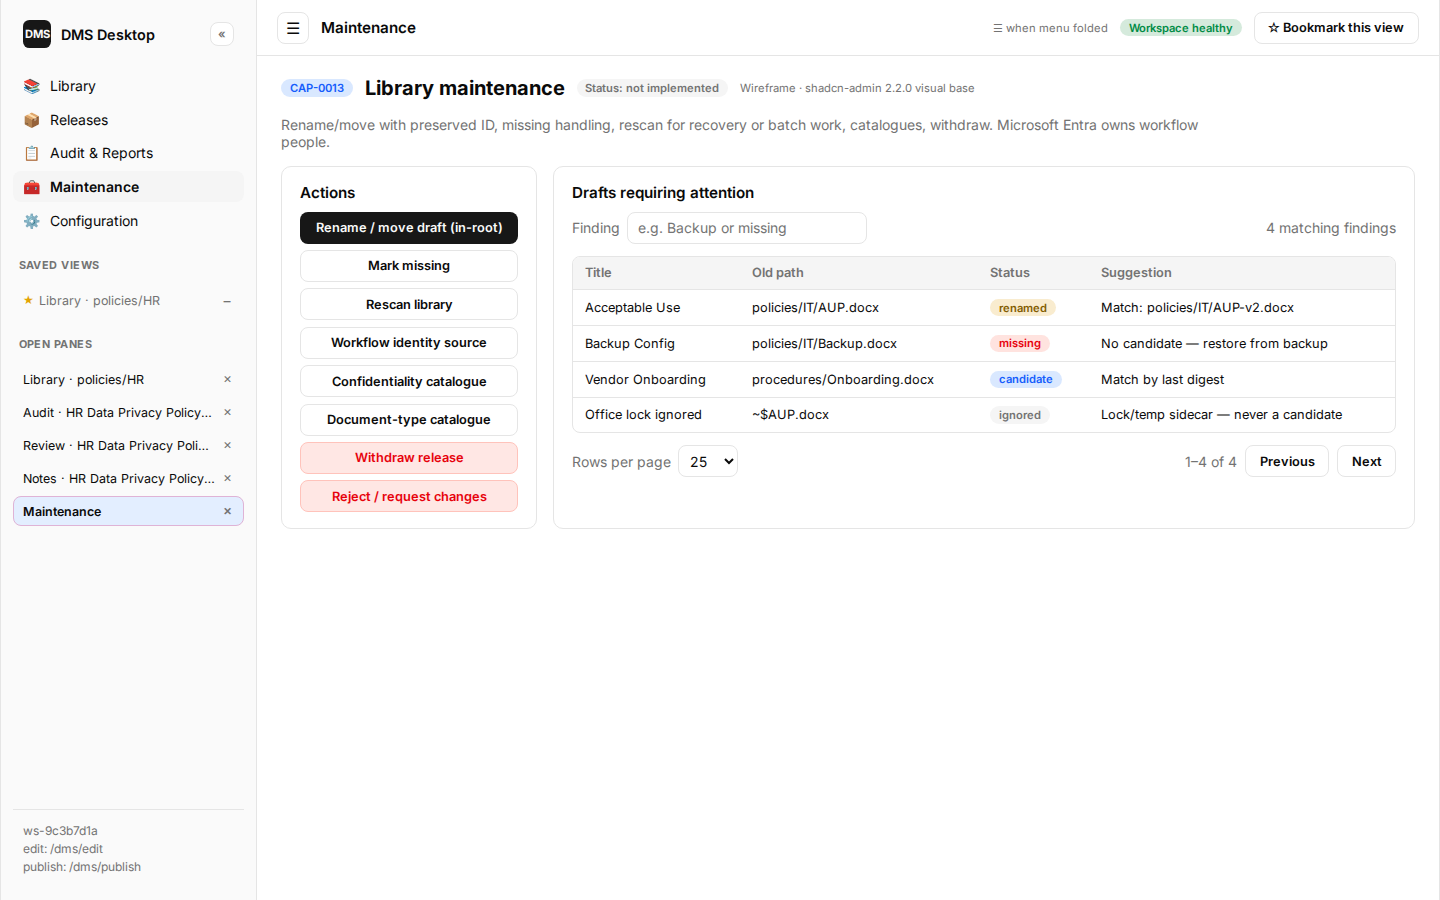
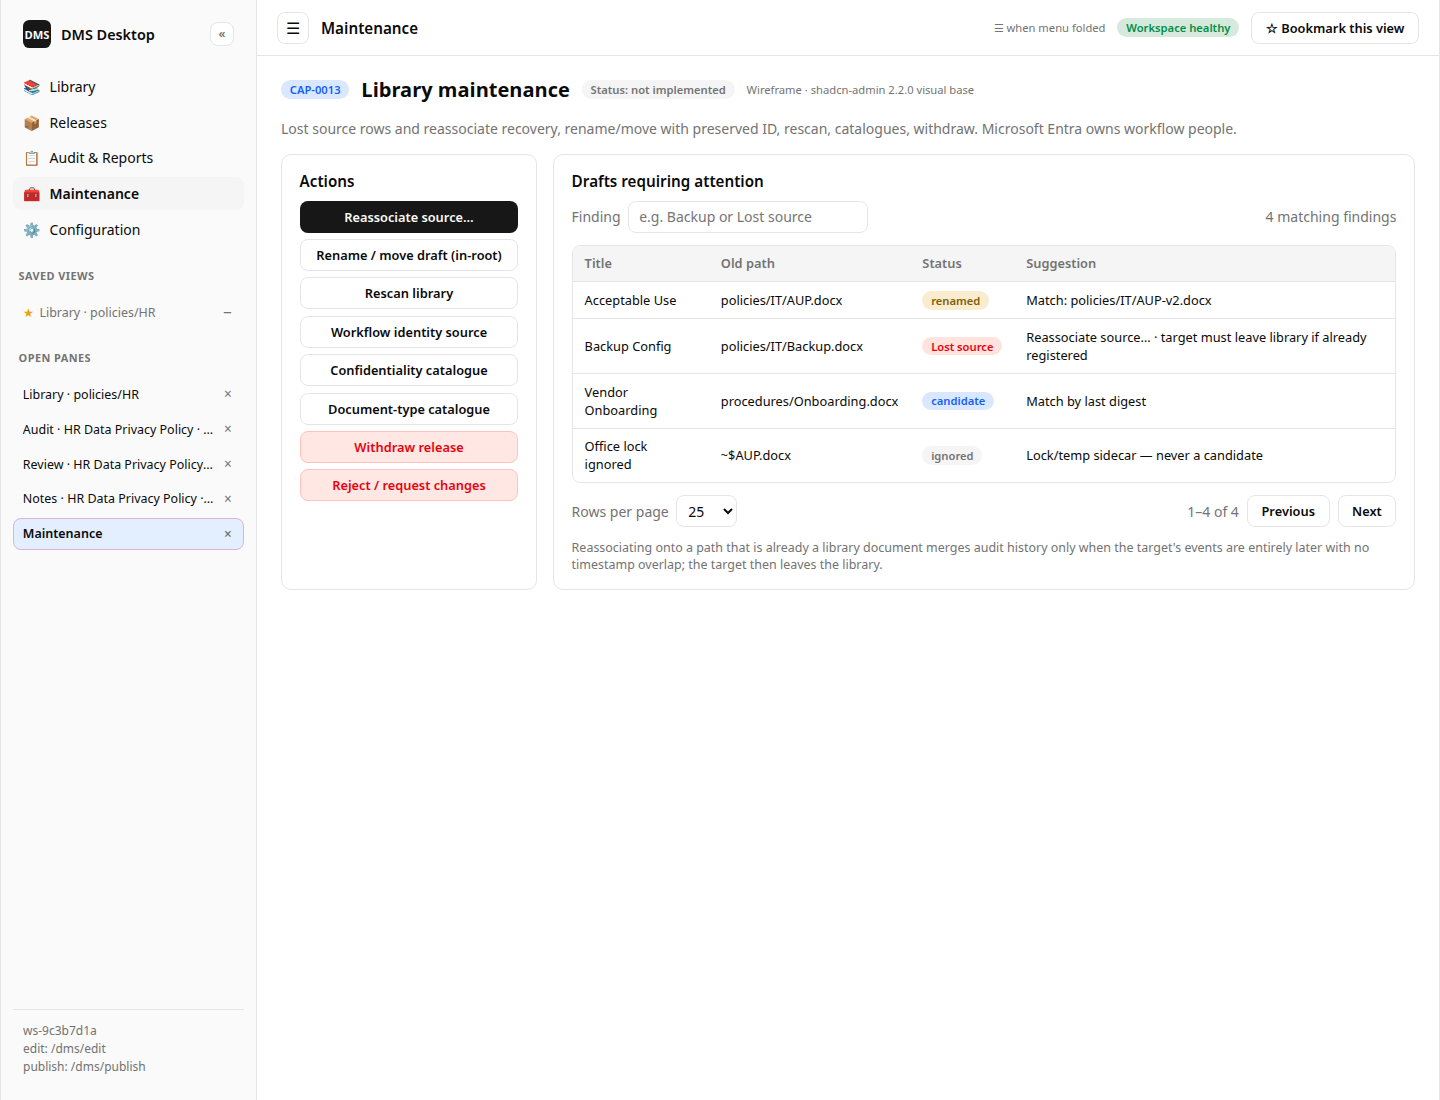
docs(wireframes): show lost-source library recovery
Regenerate CAP-0006/CAP-0013 screens for (Re-)Moved documents filter,
? counters, Lost source rows, and reassociate absorb guidance after
feat(library) c71a81b.

diff --git a/docs/product/wireframes/html/CAP-0006-library-explorer.html b/docs/product/wireframes/html/CAP-0006-library-explorer.html
@@ -299,13 +299,13 @@ tr:last-child td { border-bottom: 0; }
           <p class="hint" style="margin-top:0">Edit-root folders · <code>.dms</code> and the configured Markdown Word template hidden</p>
           <ul class="tree-root">
             <li>
-              <div class="tree-node"><span class="tree-twisty">▾</span><span class="tree-label"><svg aria-hidden="true" viewBox="0 0 24 24" style="width:1rem;height:1rem;display:inline-block;vertical-align:-0.18rem;fill:none;stroke:currentColor;stroke-width:1.8;stroke-linecap:round;stroke-linejoin:round"><path d="M3 6h7l2 2h9v11H3z"/><path d="M3 6V4h7l2 2"/></svg> DMS Workspace <span aria-label="2 draft documents" title="2 draft documents" style="display:inline-flex;min-width:1rem;justify-content:center;padding:0.05rem 0.14rem;border-radius:999px;background:var(--muted);font-size:0.58rem;font-weight:700">~2</span> <span aria-label="2 files available to add" title="2 files available to add" style="display:inline-flex;min-width:1rem;justify-content:center;padding:0.05rem 0.14rem;border-radius:999px;background:var(--muted);font-size:0.58rem;font-weight:700">+2</span> <span aria-label="1 unsupported file" title="1 unsupported file" style="display:inline-flex;min-width:1rem;justify-content:center;padding:0.05rem 0.14rem;border-radius:999px;background:var(--muted);font-size:0.58rem;font-weight:700">!1</span></span></div>
+              <div class="tree-node"><span class="tree-twisty">▾</span><span class="tree-label"><svg aria-hidden="true" viewBox="0 0 24 24" style="width:1rem;height:1rem;display:inline-block;vertical-align:-0.18rem;fill:none;stroke:currentColor;stroke-width:1.8;stroke-linecap:round;stroke-linejoin:round"><path d="M3 6h7l2 2h9v11H3z"/><path d="M3 6V4h7l2 2"/></svg> DMS Workspace <span aria-label="2 draft documents" title="2 draft documents" style="display:inline-flex;min-width:1rem;justify-content:center;padding:0.05rem 0.14rem;border-radius:999px;background:var(--muted);font-size:0.58rem;font-weight:700">~2</span> <span aria-label="2 files available to add" title="2 files available to add" style="display:inline-flex;min-width:1rem;justify-content:center;padding:0.05rem 0.14rem;border-radius:999px;background:var(--muted);font-size:0.58rem;font-weight:700">+2</span> <span aria-label="1 unsupported file" title="1 unsupported file" style="display:inline-flex;min-width:1rem;justify-content:center;padding:0.05rem 0.14rem;border-radius:999px;background:var(--muted);font-size:0.58rem;font-weight:700">!1</span> <span aria-label="1 (re-)moved document" title="1 (re-)moved document" style="display:inline-flex;min-width:1rem;justify-content:center;padding:0.05rem 0.14rem;border-radius:999px;background:var(--muted);font-size:0.58rem;font-weight:700">?1</span></span></div>
               <ul>
                 <li>
-                  <div class="tree-node"><span class="tree-twisty">▾</span><span class="tree-label"><svg aria-hidden="true" viewBox="0 0 24 24" style="width:1rem;height:1rem;display:inline-block;vertical-align:-0.18rem;fill:none;stroke:currentColor;stroke-width:1.8;stroke-linecap:round;stroke-linejoin:round"><path d="M3 6h7l2 2h9v11H3z"/><path d="M3 6V4h7l2 2"/></svg> policies <span aria-label="2 draft documents" title="2 draft documents" style="display:inline-flex;min-width:1rem;justify-content:center;padding:0.05rem 0.14rem;border-radius:999px;background:var(--muted);font-size:0.58rem;font-weight:700">~2</span> <span aria-label="2 files available to add" title="2 files available to add" style="display:inline-flex;min-width:1rem;justify-content:center;padding:0.05rem 0.14rem;border-radius:999px;background:var(--muted);font-size:0.58rem;font-weight:700">+2</span> <span aria-label="1 unsupported file" title="1 unsupported file" style="display:inline-flex;min-width:1rem;justify-content:center;padding:0.05rem 0.14rem;border-radius:999px;background:var(--muted);font-size:0.58rem;font-weight:700">!1</span></span></div>
+                  <div class="tree-node"><span class="tree-twisty">▾</span><span class="tree-label"><svg aria-hidden="true" viewBox="0 0 24 24" style="width:1rem;height:1rem;display:inline-block;vertical-align:-0.18rem;fill:none;stroke:currentColor;stroke-width:1.8;stroke-linecap:round;stroke-linejoin:round"><path d="M3 6h7l2 2h9v11H3z"/><path d="M3 6V4h7l2 2"/></svg> policies <span aria-label="2 draft documents" title="2 draft documents" style="display:inline-flex;min-width:1rem;justify-content:center;padding:0.05rem 0.14rem;border-radius:999px;background:var(--muted);font-size:0.58rem;font-weight:700">~2</span> <span aria-label="2 files available to add" title="2 files available to add" style="display:inline-flex;min-width:1rem;justify-content:center;padding:0.05rem 0.14rem;border-radius:999px;background:var(--muted);font-size:0.58rem;font-weight:700">+2</span> <span aria-label="1 unsupported file" title="1 unsupported file" style="display:inline-flex;min-width:1rem;justify-content:center;padding:0.05rem 0.14rem;border-radius:999px;background:var(--muted);font-size:0.58rem;font-weight:700">!1</span> <span aria-label="1 (re-)moved document" title="1 (re-)moved document" style="display:inline-flex;min-width:1rem;justify-content:center;padding:0.05rem 0.14rem;border-radius:999px;background:var(--muted);font-size:0.58rem;font-weight:700">?1</span></span></div>
                   <ul>
                     <li>
-                      <div class="tree-node active"><span class="tree-twisty">▾</span><span class="tree-label"><svg aria-hidden="true" viewBox="0 0 24 24" style="width:1rem;height:1rem;display:inline-block;vertical-align:-0.18rem;fill:none;stroke:currentColor;stroke-width:1.8;stroke-linecap:round;stroke-linejoin:round"><path d="M3 6h7l2 2h9v11H3z"/><path d="M3 6V4h7l2 2"/></svg> HR <span aria-label="2 draft documents" title="2 draft documents" style="display:inline-flex;min-width:1rem;justify-content:center;padding:0.05rem 0.14rem;border-radius:999px;background:var(--muted);font-size:0.58rem;font-weight:700">~2</span> <span aria-label="2 files available to add" title="2 files available to add" style="display:inline-flex;min-width:1rem;justify-content:center;padding:0.05rem 0.14rem;border-radius:999px;background:var(--muted);font-size:0.58rem;font-weight:700">+2</span> <span aria-label="1 unsupported file" title="1 unsupported file" style="display:inline-flex;min-width:1rem;justify-content:center;padding:0.05rem 0.14rem;border-radius:999px;background:var(--muted);font-size:0.58rem;font-weight:700">!1</span></span></div>
+                      <div class="tree-node active"><span class="tree-twisty">▾</span><span class="tree-label"><svg aria-hidden="true" viewBox="0 0 24 24" style="width:1rem;height:1rem;display:inline-block;vertical-align:-0.18rem;fill:none;stroke:currentColor;stroke-width:1.8;stroke-linecap:round;stroke-linejoin:round"><path d="M3 6h7l2 2h9v11H3z"/><path d="M3 6V4h7l2 2"/></svg> HR <span aria-label="2 draft documents" title="2 draft documents" style="display:inline-flex;min-width:1rem;justify-content:center;padding:0.05rem 0.14rem;border-radius:999px;background:var(--muted);font-size:0.58rem;font-weight:700">~2</span> <span aria-label="2 files available to add" title="2 files available to add" style="display:inline-flex;min-width:1rem;justify-content:center;padding:0.05rem 0.14rem;border-radius:999px;background:var(--muted);font-size:0.58rem;font-weight:700">+2</span> <span aria-label="1 unsupported file" title="1 unsupported file" style="display:inline-flex;min-width:1rem;justify-content:center;padding:0.05rem 0.14rem;border-radius:999px;background:var(--muted);font-size:0.58rem;font-weight:700">!1</span> <span aria-label="1 (re-)moved document" title="1 (re-)moved document" style="display:inline-flex;min-width:1rem;justify-content:center;padding:0.05rem 0.14rem;border-radius:999px;background:var(--muted);font-size:0.58rem;font-weight:700">?1</span></span></div>
                       <ul>
                         <li><div class="tree-node"><span class="tree-twisty empty">▸</span><span class="tree-label"><svg aria-hidden="true" viewBox="0 0 24 24" style="width:1rem;height:1rem;display:inline-block;vertical-align:-0.18rem;fill:none;stroke:currentColor;stroke-width:1.8;stroke-linecap:round;stroke-linejoin:round"><path d="M3 6h7l2 2h9v11H3z"/><path d="M3 6V4h7l2 2"/></svg> Recruiting <span aria-label="1 draft document" title="1 draft document" style="display:inline-flex;min-width:1rem;justify-content:center;padding:0.05rem 0.14rem;border-radius:999px;background:var(--muted);font-size:0.58rem;font-weight:700">~1</span></span></div></li>
                         <li><div class="tree-node"><span class="tree-twisty empty">▸</span><span class="tree-label"><svg aria-hidden="true" viewBox="0 0 24 24" style="width:1rem;height:1rem;display:inline-block;vertical-align:-0.18rem;fill:none;stroke:currentColor;stroke-width:1.8;stroke-linecap:round;stroke-linejoin:round"><path d="M3 6h7l2 2h9v11H3z"/><path d="M3 6V4h7l2 2"/></svg> Templates <span aria-label="1 file available to add" title="1 file available to add" style="display:inline-flex;min-width:1rem;justify-content:center;padding:0.05rem 0.14rem;border-radius:999px;background:var(--muted);font-size:0.58rem;font-weight:700">+1</span></span></div></li>
@@ -343,6 +343,7 @@ tr:last-child td { border-bottom: 0; }
             <button class="btn outline" aria-pressed="true">Draft documents</button>
             <button class="btn outline" aria-pressed="true">Available to add</button>
             <button class="btn outline" aria-pressed="true">Unsupported files</button>
+            <button class="btn outline" aria-pressed="true">(Re-)Moved documents</button>
             <span class="muted grow" style="text-align:right">All on · also applies to search results</span>
           </div>
           <div class="table-wrap"><table>
@@ -395,6 +396,14 @@ tr:last-child td { border-bottom: 0; }
                 <td>Office draft</td>
                 <td>—</td>
                 <td>—</td>
+              </tr>
+              <tr>
+                <td><span class="check">☐</span></td>
+                <td style="font-style:italic">Backup_config.docx</td>
+                <td><span class="badge danger">Lost source</span></td>
+                <td style="font-style:italic">Backup Config · DOC-031</td>
+                <td style="font-style:italic"><span class="badge danger">Lost source</span></td>
+                <td style="font-style:italic">V1.0</td>
               </tr>
               <tr>
                 <td><span class="check">☐</span></td>

diff --git a/docs/product/wireframes/html/CAP-0013-library-maintenance.html b/docs/product/wireframes/html/CAP-0013-library-maintenance.html
@@ -252,14 +252,14 @@ tr:last-child td { border-bottom: 0; }
         <span class="badge muted">Status: not implemented</span>
         <span class="wire-meta">Wireframe · shadcn-admin 2.2.0 visual base</span>
       </div>
-      <p class="subtitle">Rename/move with preserved ID, missing handling, rescan for recovery or batch work, catalogues, withdraw. Microsoft Entra owns workflow people.</p>
+      <p class="subtitle">Lost source rows and reassociate recovery, rename/move with preserved ID, rescan, catalogues, withdraw. Microsoft Entra owns workflow people.</p>
       
       <div class="grid-explorer">
         <aside class="card">
           <h3 class="card-title">Actions</h3>
           <div class="stack-btns">
-            <button class="btn">Rename / move draft (in-root)</button>
-            <button class="btn outline">Mark missing</button>
+            <button class="btn">Reassociate source…</button>
+            <button class="btn outline">Rename / move draft (in-root)</button>
             <button class="btn outline">Rescan library</button>
             <button class="btn outline">Workflow identity source</button>
             <button class="btn outline">Confidentiality catalogue</button>
@@ -271,15 +271,16 @@ tr:last-child td { border-bottom: 0; }
         <section class="card">
           <h3 class="card-title">Drafts requiring attention</h3>
           <div class="row between mb" style="flex-wrap:wrap;gap:0.75rem">
-    <label class="muted" style="display:flex;align-items:center;gap:0.45rem">Finding <input aria-label="Filter rescan findings" placeholder="e.g. Backup or missing" style="height:2rem;width:15rem;border:1px solid var(--input);border-radius:calc(var(--radius) - 2px);padding:0 0.65rem;font:inherit;color:var(--foreground);background:var(--background)"/></label>
+    <label class="muted" style="display:flex;align-items:center;gap:0.45rem">Finding <input aria-label="Filter rescan findings" placeholder="e.g. Backup or Lost source" style="height:2rem;width:15rem;border:1px solid var(--input);border-radius:calc(var(--radius) - 2px);padding:0 0.65rem;font:inherit;color:var(--foreground);background:var(--background)"/></label>
     <span class="muted">4 matching findings</span>
   </div><div class="table-wrap"><table>
     <thead><tr><th>Title</th><th>Old path</th><th>Status</th><th>Suggestion</th></tr></thead>
-    <tbody><tr><td>Acceptable Use</td><td>policies/IT/AUP.docx</td><td><span class="badge warn">renamed</span></td><td>Match: policies/IT/AUP-v2.docx</td></tr><tr><td>Backup Config</td><td>policies/IT/Backup.docx</td><td><span class="badge danger">missing</span></td><td>No candidate — restore from backup</td></tr><tr><td>Vendor Onboarding</td><td>procedures/Onboarding.docx</td><td><span class="badge info">candidate</span></td><td>Match by last digest</td></tr><tr><td>Office lock ignored</td><td>~$AUP.docx</td><td><span class="badge muted">ignored</span></td><td>Lock/temp sidecar — never a candidate</td></tr></tbody>
+    <tbody><tr><td>Acceptable Use</td><td>policies/IT/AUP.docx</td><td><span class="badge warn">renamed</span></td><td>Match: policies/IT/AUP-v2.docx</td></tr><tr><td>Backup Config</td><td>policies/IT/Backup.docx</td><td><span class="badge danger">Lost source</span></td><td>Reassociate source… · target must leave library if already registered</td></tr><tr><td>Vendor Onboarding</td><td>procedures/Onboarding.docx</td><td><span class="badge info">candidate</span></td><td>Match by last digest</td></tr><tr><td>Office lock ignored</td><td>~$AUP.docx</td><td><span class="badge muted">ignored</span></td><td>Lock/temp sidecar — never a candidate</td></tr></tbody>
   </table></div><div class="row between" style="margin-top:0.75rem;flex-wrap:wrap;gap:0.75rem">
     <label class="muted" style="display:flex;align-items:center;gap:0.45rem">Rows per page <select aria-label="Table rows per page" style="height:2rem;border:1px solid var(--input);border-radius:calc(var(--radius) - 2px);padding:0 0.45rem;font:inherit;color:var(--foreground);background:var(--background)"><option>10</option><option selected>25</option><option>50</option><option>100</option></select></label>
     <div class="row gap-2"><span class="muted">1–4 of 4</span><button class="btn outline" disabled>Previous</button><button class="btn outline" disabled>Next</button></div>
   </div>
+          <p class="hint">Reassociating onto a path that is already a library document merges audit history only when the target's events are entirely later with no timestamp overlap; the target then leaves the library.</p>
         </section>
       </div>
     </main>
